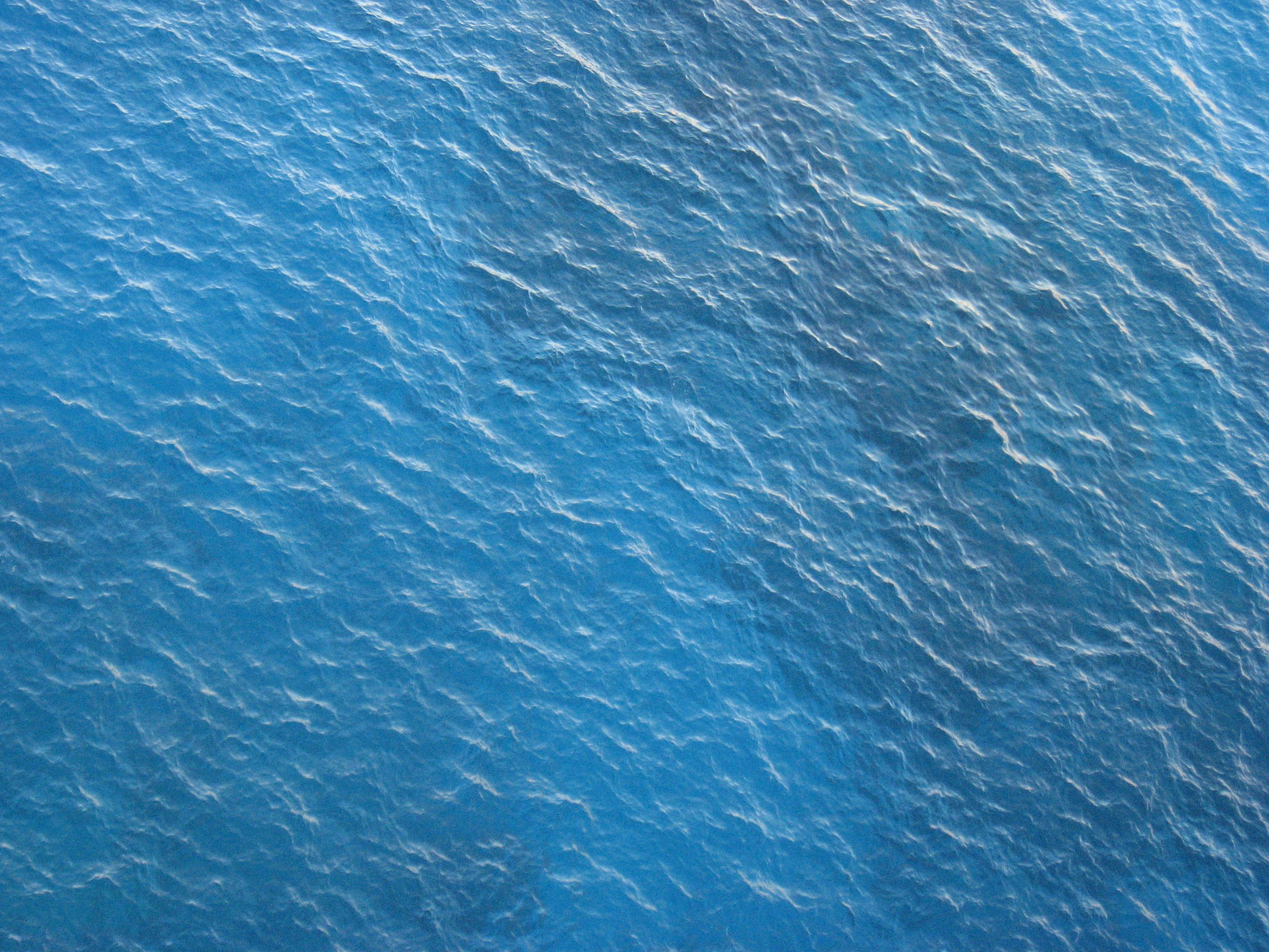
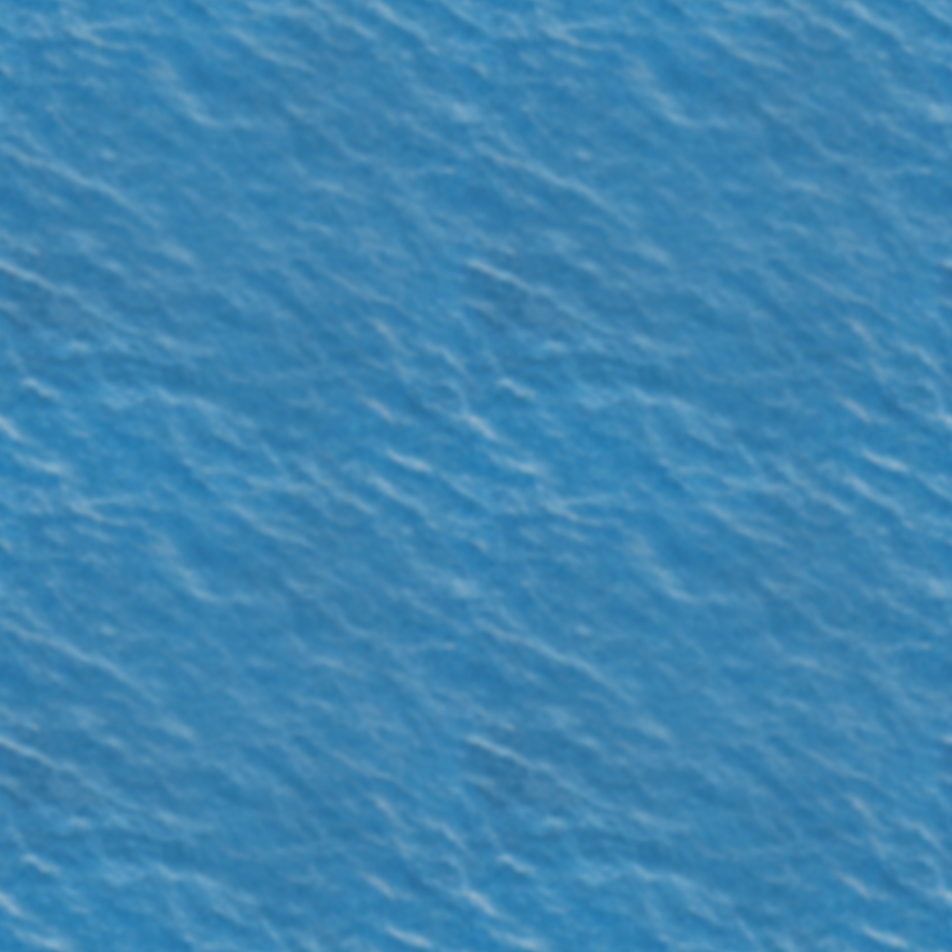
osti de loading de background de calisse

diff --git a/levels/level.py b/levels/level.py
@@ -1,3 +1,4 @@
+from math import ceil
 import pygame
 from attack import Attack
 from constants import WIDTH, HEIGHT
@@ -9,7 +10,7 @@ import random
 from sprites.enemyPrototype import EnemyPrototype
 
 class Level:
-    CLOUDS = 25
+    CLOUDS = 20
     CLOUDSIMG = [
         pygame.image.load("res/cloud-1.png"),
         pygame.image.load("res/cloud-2.png"),
@@ -19,16 +20,19 @@ class Level:
     ]
 
     BG = pygame.image.load("res/sea-2.jpg")
-    NB_TOT_TILES = 0
-    NB_WIDTH_TILES = 4
-    SIZE_TILE = WIDTH/(2*NB_WIDTH_TILES)
+    NB_HEIGHT_TILES = 4 # note: must be higher than 1
+    SIZE_TILE = int(HEIGHT/(NB_HEIGHT_TILES-1))
+    NB_WIDTH_TILES = ceil(WIDTH/(2*SIZE_TILE))
+    NB_TOT_TILES = NB_WIDTH_TILES * NB_HEIGHT_TILES
     LOADING_TILES = False
+    BG_SPEED = 1
+    OFFSET = 2 # tweek if you see gaps in the textures (this shit is black magic)
 
     def __init__(self, num: int, screen: pygame.Surface, background: pygame.Surface) -> None:
         self.num = num
         self.screen = screen
         self.gameWorldSurf = pygame.Surface((WIDTH/2, HEIGHT))
-        self.background = background
+        self.background = self.BG
 
         # Loading images
         playerImg = pygame.image.load("res/player.png")
@@ -51,7 +55,7 @@ class Level:
         self.player = Player(playerImg, self.playerProjectileGroup, self.enemyProjectileGroup, self.gameWorldSurf.get_rect(), centerx=WIDTH / 2, bottom=HEIGHT)
 
         # Generating some ennemies
-        for _ in range(5):
+        for _ in range(0):
             randomX = random.randint(schnakeImg.get_width(), self.gameWorldSurf.get_width() - schnakeImg.get_width())
             randomY = random.randint(schnakeImg.get_height(), self.gameWorldSurf.get_height() - schnakeImg.get_height() - self.player.image.get_height())
             enemy = Enemy(schnakePrototype, center=(randomX, randomY))
@@ -65,17 +69,20 @@ class Level:
 
         # Generate initial bg
         for i in range(self.NB_WIDTH_TILES):
-            for j in range(int(HEIGHT/self.SIZE_TILE)+2):
-                self.backgroundTilesGroup.add(BackgroundObject(self.BG, pygame.Vector2(0, -2), self.SIZE_TILE, center=(WIDTH/4 - 25 + self.SIZE_TILE * i,  250 + self.SIZE_TILE * j)))
-                self.NB_TOT_TILES += 1
+            for j in range(self.NB_HEIGHT_TILES):
+                #print(int(WIDTH/4 + self.SIZE_TILE * i), int(self.SIZE_TILE * j))
+                self.backgroundTilesGroup.add(
+                    BackgroundObject(self.BG, pygame.Vector2(0, -self.BG_SPEED), self.SIZE_TILE, topleft=(self.SIZE_TILE * i, self.SIZE_TILE *j))
+                )
+                # print("BG: " +  str(int(self.SIZE_TILE * i)) +", " + str(self.SIZE_TILE * (j-1)))
 
     def generateCloud(self, randomY = False):
             img = self.CLOUDSIMG[random.randint(0, len(self.CLOUDSIMG)-1)]                  # Pick a random sprite
             width = random.randint(int(WIDTH/10), int(WIDTH))                               # Pick a random size 
             randomX = random.randint(-int(width/2), WIDTH+int(width/2))                     # Pick a random X position
-            Y = random.randint(0 - HEIGHT/2, HEIGHT) if randomY else 0 - img.get_height()   # Pick a randon Y position or top of the screen
-            speed =  pygame.Vector2(0, -(width*2.5 / WIDTH)*10)                             # Pick a speed calculated by size of image
-            return BackgroundObject(img, speed, width, center=(randomX,  Y))
+            Y = random.randint(0 - HEIGHT/2, HEIGHT) if randomY else -img.get_height()*1.75   # Pick a randon Y position or top of the screen
+            speed =  pygame.Vector2(0, -(width*2.5 / WIDTH)*12)                             # Pick a speed calculated by size of image
+            return BackgroundObject(img, speed, width, topleft=(randomX,  Y))
         
     def update(self, game, events, keys) -> None:
         self.pollInput(events, keys)
@@ -87,11 +94,14 @@ class Level:
         self.backgroundTilesGroup.update()
         if(len(self.backgroundObjectsGroup.sprites()) < self.CLOUDS): self.backgroundObjectsGroup.add(self.generateCloud())
         if(len(self.backgroundTilesGroup.sprites()) < self.NB_TOT_TILES):
-            print(self.NB_TOT_TILES)
+            # print(self.NB_TOT_TILES)
+            # print(len(self.backgroundTilesGroup.sprites()))
             for i in range(self.NB_WIDTH_TILES):
                 self.backgroundTilesGroup.add(
-                    BackgroundObject(self.BG, pygame.Vector2(0, -2), self.SIZE_TILE, center=(WIDTH/4 - 25 + self.SIZE_TILE * i, self.SIZE_TILE))
+                    BackgroundObject(self.BG, pygame.Vector2(0, -self.BG_SPEED), self.SIZE_TILE, topleft=(self.SIZE_TILE * i, self.OFFSET-self.SIZE_TILE))
                 )
+                # print("BG: " +  str(int(self.SIZE_TILE * i)) +", " + str(-self.SIZE_TILE))
+
 
         if not self.player.isAlive:
             game.switchState("MenuState")

diff --git a/sprites/BackgroundObject.py b/sprites/BackgroundObject.py
@@ -4,10 +4,14 @@ class BackgroundObject(pygame.sprite.Sprite):
     def __init__(self, image: pygame.Surface, speed: pygame.math.Vector2(), width = None, **kwargs):
         pygame.sprite.Sprite.__init__(self)
 
-        self.image = image
-        self.rect = self.image.get_rect(**kwargs)
         self.speed = speed
-        if(width != None): self.image = pygame.transform.scale(self.image, (width, self.image.get_height() * (width / self.image.get_width())))
+        if(width != None):  self.image = pygame.transform.scale(image, (width, image.get_height() * (width / image.get_width())))
+        else: self.image = image
+
+        self.rect = self.image.get_rect(**kwargs)
+        self.rect.width = self.image.get_width()
+        self.rect.height = self.image.get_height()
+        
         self.image = pygame.Surface.convert_alpha(self.image);
 
 
@@ -16,5 +20,5 @@ class BackgroundObject(pygame.sprite.Sprite):
 
         # If it goes offscreen, die
         screen = pygame.display.get_surface()
-        if self.rect.top > screen.get_height():
+        if self.rect.top >  screen.get_height():
             self.kill()
